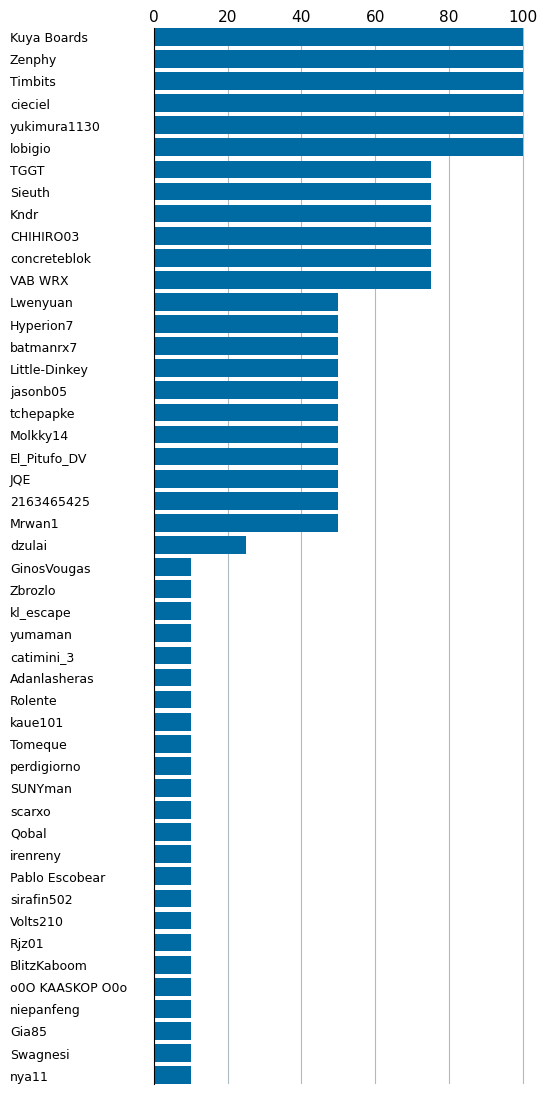
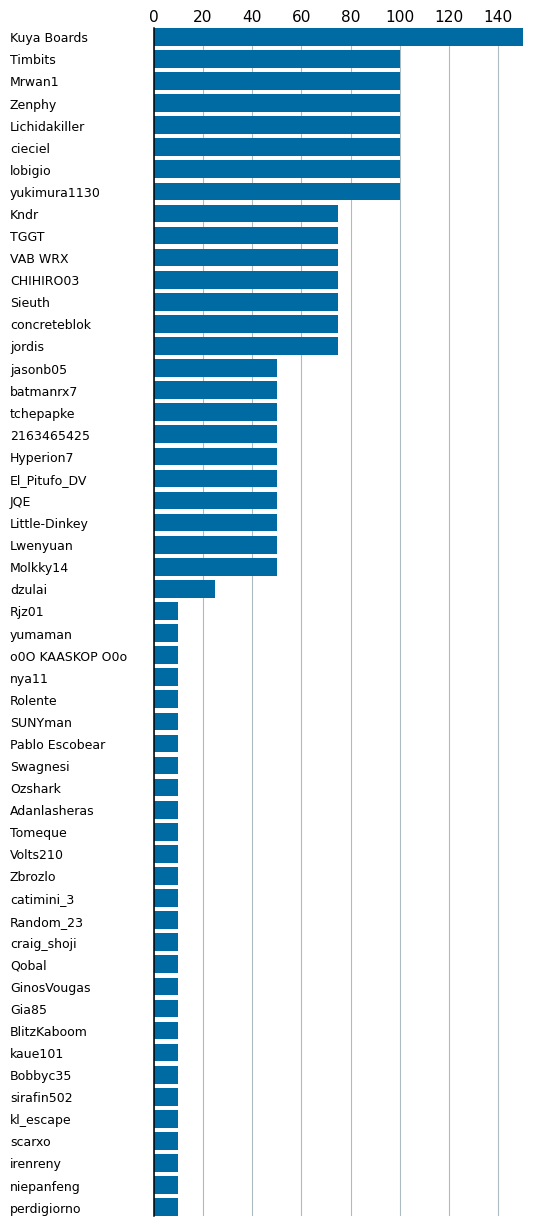
1

Changed region(s): [[0.2777, 0.0, 0.9873, 0.9945], [0.0, 0.0311, 0.216, 0.9945]]

diff --git a/_page/Ccs.md b/_page/Ccs.md
@@ -4,8 +4,7 @@ layout: default
 ## Carcassonne 
 
 ### Region standings
-🥇Philippines(100) 🥈Japan(75) 🥉Argentina(50) 🥉Taiwan(50)
-
+🥇Philippines(150) 🥈Mexico(100) 🥉Taiwan(100)
 
 ### Player standings
 <div>

diff --git a/index.md b/index.md
@@ -44,7 +44,7 @@ layout: default
 
 
 ### Region standings of all games 
-🥇Japan(270) 🥈Philippines(225) 🥉China(215)
+🥇Japan(280) 🥈Philippines(275) 🥉China(215)
 
 ### Player standings of all games
 
